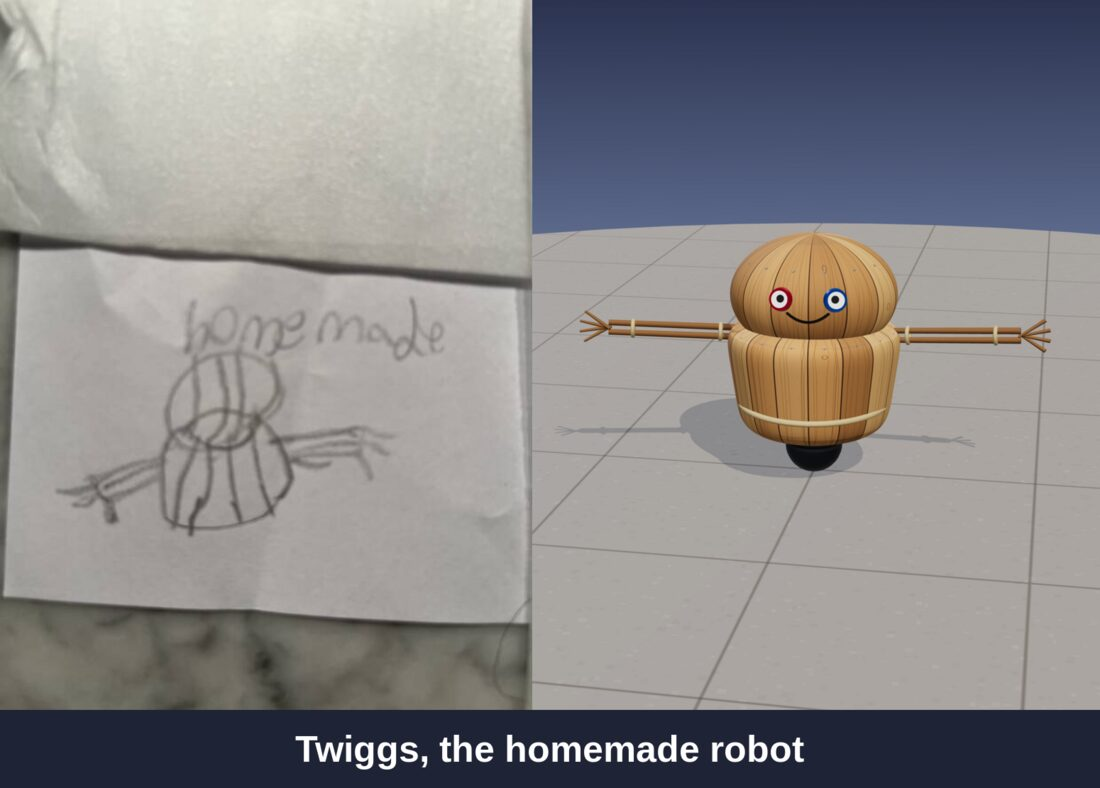
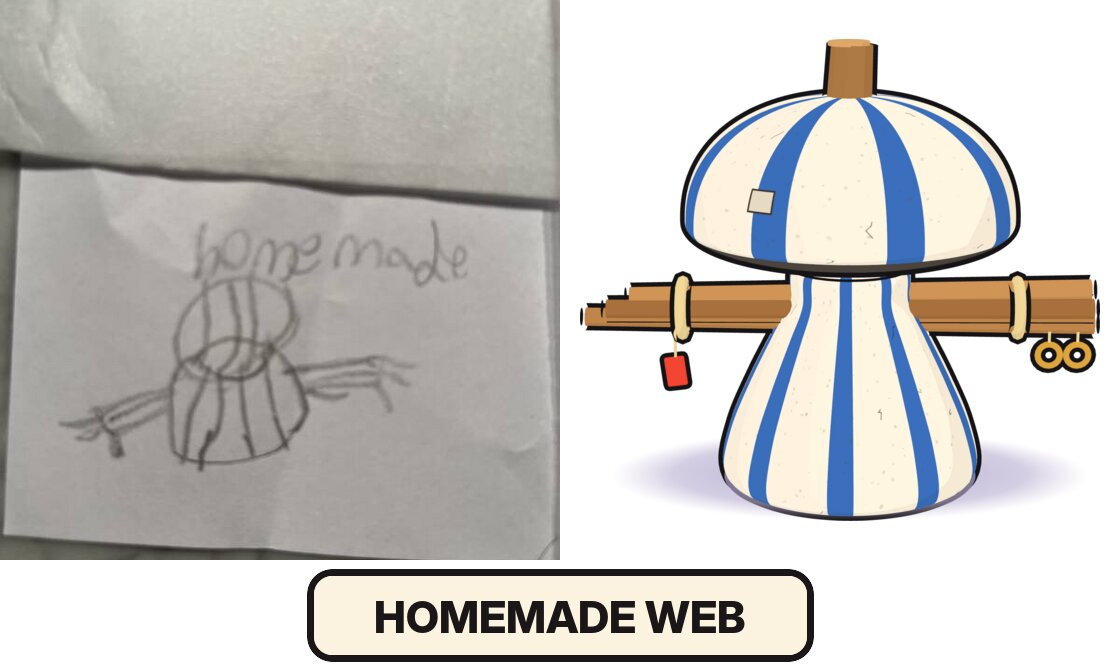
Rebuild the sketchbook characters from the owner's reference sheet
The reference sheet is now the design: Snatch, Astro, Patch, Spider Web,
and Homemade Web, cel-shaded with thick outlines. New concept renders
match it, laid out like the sheet and beside each drawing. The doc takes
the sheet's names, shapes, faces, arms, and features, and adds the toon
look (toon materials, inverted-hull outlines, unlit glows).

Claude-Session: https://claude.ai/code/session_01Hd9FrupR173vv3W464VfxR

diff --git a/docs/initiatives/sketchbook-characters.md b/docs/initiatives/sketchbook-characters.md
@@ -5,23 +5,22 @@
 | **Status** | Planned: next is `feature/sketchbook-cat` |
 | **Phase** | P3 (the characters), P5 (prices, with the [parts catalog](robot-parts-catalog.md)) |
 | **Started** | 2026-11-07 |
-| **Done when** | A kid walks into the Bot Maker, opens the Characters shelf, taps Meowtron, and rolls out as a gray robot cat with big shiny eyes, pointed ears, and whiskers. They swap its head for Patch's pumpkin, then reach out with the cat's tail, grab a saber off the floor two meters away, and pull it into their paw, while a friend on an iPad sees exactly that robot. |
+| **Done when** | A kid walks into the Bot Maker, opens the Characters shelf, taps Snatch, and rolls out as a gray robot cat with huge yellow eyes, pointed ears, and a ringed tail. They swap its head for Patch's pumpkin, then reach out with the cat's tail, grab a saber off the floor two meters away, and pull it into their grabber, while a friend on an iPad sees exactly that robot. |
 
 Five characters, drawn by the owner's son: a **cat**, an **astronaut**, a **pumpkin**, a **spider**, and a
-**homemade** robot. Each one becomes a **special build** in the Bot Maker: a robot dressed up as the drawing.
+**homemade** robot. The owner turned them into a reference sheet, and that sheet is the design: **Snatch**, **Astro**,
+**Patch**, **Spider Web**, and **Homemade Web**. Each one becomes a **special build** in the Bot Maker.
 
-**Each one is shaped like its drawing, not like today's robot:** a big head sitting right on a small body, no neck,
-and no giant drive ball. The cat and the pumpkin have huge wide heads, the astronaut a wide round-cornered helmet on a
-boxy suit, the spider a tall head under a round cap, and the homemade robot an oval head sunk into a wooden pail.
+![The reference sheet](sketchbook/reference-sheet.jpg)
 
-They still share their shapes, in the way that counts for code. Every head is built by **one shape generator** with
-the same layout (the same vertices, texture map, and feature spots), and so is every torso. A character sets a few
-numbers (width, height, depth, how boxy, how tapered) to match its drawing. What else tells them apart is the
-**skin** (the cat's fur, the astronaut's suit, the pumpkin's overalls) and a few small **features** stuck on top
-(ears, an antenna, a stem, a tail).
+They're chunky cartoon robots: big heads on small bodies, **cel-shaded with thick black outlines**, a little scuffed.
+Every head is built by **one shape generator** with the same layout (the same vertices, texture map, and feature
+spots), and so is every torso; each character sets a few numbers (width, height, depth, how boxy, ribs) to get its
+shape from the sheet. What else tells them apart is the **skin** and a few **features** stuck on top (ears, an antenna,
+a stem, a peg, a tail).
 
-They're still robots. Each rolls on a small drive roller tucked under its body, eats carrots through a jaw, and takes
-paint. They're robots in costume, and each has a robot name that plays on what it is.
+They're still robots. Each eats carrots through a jaw and takes paint, and each rolls on a small drive roller hidden
+under its body (Spider Web walks on its four legs instead).
 
 ## The drawings
 
@@ -31,17 +30,16 @@ paint. They're robots in costume, and each has a robot name that plays on what i
 
 ### In the game
 
-Concept renders, one per drawing, built in three.js the way this doc plans: one head generator and one torso
-generator for all five, each set to its drawing's proportions, in its own skin, with its own features and hands.
-They're a look to aim for, not the final parts.
+Concept renders built in three.js to match the reference sheet, the way this doc plans to build them: shared shape
+generators, toon materials on a three-tone ramp, and inverted-hull outlines. They're the look to aim for.
 
-![All five characters in the game](sketchbook/all-in-game.jpg)
+![All five characters in the game](sketchbook/characters.jpg)
 
-![Meowtron, the cat](sketchbook/cat-in-game.jpg)
-![Astrobolt, the astronaut](sketchbook/astronaut-in-game.jpg)
+![Snatch, the cat](sketchbook/cat-in-game.jpg)
+![Astro, the astronaut](sketchbook/astronaut-in-game.jpg)
 ![Patch, the pumpkin](sketchbook/pumpkin-in-game.jpg)
-![Spindle, the spider](sketchbook/spider-in-game.jpg)
-![Twiggs, the homemade robot](sketchbook/homemade-in-game.jpg)
+![Spider Web, the spider](sketchbook/spider-in-game.jpg)
+![Homemade Web, the homemade robot](sketchbook/homemade-in-game.jpg)
 
 The cat's tail is labeled "able to grab and pull". That's a feature, not a look: [the tail](#the-cats-tail) has its own
 PR.
@@ -51,122 +49,96 @@ PR.
 By the owner, 2026-11-07.
 
 - **Five characters, from the drawings:** cat, astronaut, pumpkin, spider, and homemade.
-- **Same torso geometry, same head geometry.** Every character's torso is one shared shape, and every head is another.
-- **Shaped like the drawings, not like today's robot (2026-11-07).** Each character's head and body take the
-  proportions and shapes of its drawing. So the sharing is one layout per part (one generator, one texture map, the
-  same feature spots), with each character's own shape numbers.
-- **Skins tell them apart:** the cat has a cat's body, the astronaut a space suit, the pumpkin overalls.
-- **Features on top:** ears, antennas, stems, and the like, added to the shared shapes.
+- **The reference sheet is the design.** Shapes, colors, faces, arms, and hands follow it as exactly as the game can.
+- **Their names are the sheet's:** Snatch (cat), Astro (astronaut), Patch (pumpkin), Spider Web (spider), and Homemade
+  Web (homemade).
+- **Same torso geometry, same head geometry,** as one layout per part: one generator, one texture map, the same
+  feature spots, with each character's own shape numbers.
+- **Skins tell them apart,** with **features on top:** ears, antennas, stems, and the like.
 - **They're a catalog** of skins and avatars in the Bot Maker, and each one is a quirky play on robots.
 - **The cat's tail can grab and pull.**
 
 ### Proposed here, for the owner to confirm
 
-- **The robot names:** Meowtron (cat), Astrobolt (astronaut), Patch (pumpkin), Spindle (spider), and Twiggs (homemade).
-  The catalog card shows the drawing's own word under the name: "Meowtron, the cat".
 - **Characters are parts, so kids can mix them.** Each character is a torso, a head, and arms, one in each of the
   `body`, `head`, and `arms` slots. Every torso has its neck spot on top and every head sits on it, so every head fits
-  every torso: a pumpkin head on a space suit just works. A character is a **preset build** on the Characters shelf, and one tap puts on all three parts.
-- **Arms too.** The drawings give each character its own hands (paws, mittens, fingers, claws, twigs), so the arms are
-  a shared shape with a skin and a hand of their own, like the torso and head.
-- **Paint colors the main skin, not the details.** A painted cat is an orange cat with the same white belly, dark eyes,
-  and whiskers. The astronaut's visor, the overalls' buttons, and the like never take paint.
+  every torso: a pumpkin head on Astro's body just works. A character is a **preset build** on the Characters shelf,
+  and one tap puts on all three parts.
+- **Paint colors the main skin, not the details.** A painted Snatch is an orange cat with the same cream belly and
+  yellow eyes. Visors, glowing eyes, chest panels, and the like never take paint.
 - **The drawing goes on the card.** Each character's catalog card shows the sketch it came from, with a credit line.
 - **Free at first,** like every part, then priced with the rest of the [parts catalog](robot-parts-catalog.md#prices):
   5 CC for each part, or 12 CC for a whole character.
 
 ## Design
 
+### The look: cel-shaded with outlines
+
+- **Toon materials** (`MeshToonMaterial`) on a three-step ramp, so each surface reads as flat light, mid, and shadow
+  colors, like the sheet.
+- **Thick black outlines** from an inverted hull: each part's mesh drawn again, pushed out along its normals, back
+  faces only, in near-black. One shared outline material per thickness.
+- **Scuffs:** cream and orange skins carry specks and a few scratches, drawn into the skin texture.
+- **Glows are unlit,** not lights (D9): Patch's eyes, Spider Web's eye slits and chest slit, and Astro's chest buttons,
+  with a soft sprite halo.
+- The rest of the station stays as it is. The characters are the only toon-shaded things in it, which is the point:
+  they're the kid's drawings come to life.
+
 ### The shared shapes
 
-- **One generator per part.** Heads and torsos are superellipsoids: a ball that can be stretched wide or tall, made
-  boxier, or tapered, from five numbers. Every head comes out with the same vertices, texture map, and feature spots,
-  and so does every torso, so skins and features work the same on all of them. Each character's shape is built once
-  and shared by every robot wearing it.
-- **The proportions come from the drawings,** in meters, with today's robot about 3.3 m tall for scale:
-
-  | | Head (wide × tall × deep) | Torso (wide × tall × deep) | Shape notes |
-  | --- | --- | --- | --- |
-  | Meowtron | 2.36 × 1.6 × 1.84 | 1.2 × 1.2 × 1.1 | The head is twice the body's width |
-  | Astrobolt | 2.2 × 1.44 × 1.8, round-cornered | 1.2 × 1.1 × 1.0, boxy | A helmet with flat-ish sides on a box |
-  | Patch | 2.5 × 1.64 × 2.0 | 1.0 × 1.24 × 0.92 | The widest head; a narrow body |
-  | Spindle | 1.2 × 1.6 × 1.16, tall | 0.96 × 0.84 × 0.92 | A tall oval head on a small round body |
-  | Twiggs | 1.72 × 1.24 × 1.52 | 1.7 × 1.2 × 1.6, flat top and bottom | The head sinks into a pail as wide as it is |
-
-- **No neck.** The head sits right on the torso, sunk into it a little, like the drawings.
-- **The roller.** Characters don't sit on the giant drive sphere. Their mobility is a small drive roller (about 0.6 m
-  across) mostly hidden under the body, so the robot is still a robot that rolls. It moves like the sphere; only the
-  look and the collision size change.
+- **One generator per part.** Heads are superellipsoids: a ball stretched wide or tall, made boxier, ribbed, dimpled at
+  the top, or flattened underneath, from a few numbers. Torsos are lathes from a profile, optionally ribbed. Every
+  head has the same vertices, texture map, and feature spots, and so does every torso, so skins and features work the
+  same on all of them. Each character's shape is built once and shared by every robot wearing it.
+- **Big heads, small bodies, no neck.** The head sits right on the torso, as on the sheet. Spider Web is the exception:
+  its dome rides on a short neck above its body.
+- **The roller.** The characters don't sit on the giant drive sphere. Their mobility is a small drive roller hidden
+  under the body, so they still roll. Spider Web stands on its claws, with its body off the floor; it rolls on the same
+  hidden roller, and its legs step as it goes.
 - **Torsos keep the standard mounts** (the neck spot on top, shoulders, the hold point, a chest hatch), placed on each
   shape, so any head and any arms fit any torso, and a character's head and arms fit the old bodies too.
-- **The arms:** a soft, round-ended tube from the shoulder that hangs and swings like the noodle arms, with a **hand**
-  on the end. The hand and the arm's length change per character: the cat's are stubby, the spider's arch out to the
-  floor, and Twiggs's are sticks held straight out.
+- **The arms** are segmented: short capsules in two alternating colors, so the outline draws each joint. The hand on
+  the end changes per character: round C-shaped grabbers (Snatch, Astro), dark hooked claws (Patch), three-toed claw
+  feet (Spider Web). Homemade Web has a bundle of sticks instead.
 - **The jaw:** the head's jaw is one cut in the shared shape (the lower front, below the face), the same for every
-  character. Each skin draws its own mouth on it: the cat's little "ω", the pumpkin's grin, the astronaut's chin plate.
-  If there's no head, the torso's chest hatch is the mouth, as on every body.
-- **Feature anchors:** named spots on the shared shapes where features attach: `top`, `left` and `right` on the head,
-  and `front`, `back` and `sides` on the torso.
+  character. Each skin draws its own mouth on it: Snatch's and Patch's open grins. Homemade Web has no face, so its jaw
+  is the cap's dark underside. With no head, the torso's chest hatch is the mouth, as on every body.
 
 ### Skins
 
 - **A skin is a texture, not a shape.** Each skin is a canvas texture drawn in code (`makeCanvas`, like every robot
-  skin today), cached, so every robot wearing the cat skin shares one texture. Skins are drawn bold and simple, like
-  the drawings, with soft pencil-gray outlines around the big shapes (the belly, the visor, the straps) as a nod to
-  where they came from.
+  skin today), cached, so every robot wearing it shares one texture.
 - **A paint mask.** Each skin has a second texture marking what paint covers. The coat shader (`avatar/parts/kit.ts`)
-  mixes by `cure × mask` instead of `cure`. Parts without a mask draw as before, so the classic robot and every
-  screenshot baseline stay unchanged.
+  mixes by `cure × mask` instead of `cure`, on the toon material as on the standard one. Parts without a mask draw as
+  before, so the classic robot and every screenshot baseline stay unchanged.
 - **Paint cure works the same:** a freshly painted cat is see-through over its gray fur, and the color fills in as it
   eats carrots.
 
-### Features
-
-Small meshes on the anchors, each a builder in `avatar/parts/features.ts`. They take paint when the skin under them
-does (a painted cat's ears match its fur) unless noted.
-
-| Feature | On | Looks like |
-| --- | --- | --- |
-| Cat ears | head `left`, `right` | Pointed triangles, rounded at the tip, with a pink inner ear and a little tuft |
-| Whiskers | head `left`, `right` | Three thin dark lines a side, fanning out from the cheeks. Never painted |
-| Tail | torso `back` | A long curving tail in segments, with a rounded tip. It swishes as the robot rolls ([the tail](#the-cats-tail)) |
-| Antenna | head `top` | A thin rod with a ball tip that glows softly (emissive, no light, D9) and bobs |
-| Ear bolts | head `left`, `right` | Small square comm units on the sides of the helmet |
-| Control box | torso `front` | A box on the chest with a checkerboard of buttons, a few lit. Never painted |
-| Stem | head `top` | A short, thick, slightly bent green stem. Never painted |
-| Overall straps | torso `front` | Two straps over the shoulders, a bib, and two round buttons. The denim takes paint, buttons don't |
-| Spider cap | head `top` | A round dome cap with a rolled rim, like the one in the drawing |
-| Twine | torso, arms | Rope bands tied round the torso and the wrists, with loose ends |
-
 ### The characters
 
-| | Head skin | Torso skin | Hands | Features |
+| | Head | Body | Arms and hands | Features |
 | --- | --- | --- | --- | --- |
-| **Meowtron**, the cat | Soft gray fur, two huge dark eyes ringed in black with white shines, a small nose and a "ω" mouth | Gray fur with a pale oval belly | Paws with three toe lines | Ears, whiskers, tail |
-| **Astrobolt**, the astronaut | A white helmet with a big glossy black visor, streaked with reflections; the chin plate is the jaw | A white space suit with seams and a utility belt | Puffy mittens | Antenna, ear bolts, control box |
-| **Patch**, the pumpkin | Pumpkin orange with darker ribs running down from the top, two round eyes, a square nose, and a little grin | Blue denim overalls over a plain shirt | Gloves with four fingers | Stem, overall straps |
-| **Spindle**, the spider | Deep purple, a cluster of eight shiny eyes (two big, six small), and two little fangs on the jaw | Purple with a paler hourglass on the back | Four thin hooked claws at the end of long arching arms | Spider cap |
-| **Twiggs**, the homemade robot | Wooden staves, as if nailed together in a garage: two bottle-cap eyes and a marker-drawn smile | Wooden staves round like a barrel, with nail heads | Two sticks bound with twine, and twig fingers | Twine |
-
-Twiggs's drawing has no face, so the bottle caps and the marker smile are a guess. The spider's eyes are too: its
-drawing shows the cap, the round body, and the long hooked arms.
+| **Snatch**, the cat | Wide gray head with tabby stripes and a cream lower face; huge yellow eyes with black pupils and white shines; an open grin with a tongue | A dark gray bell with a cream belly | Cream-and-tan striped arms, round cream C grabbers | Big pointed ears, pink inside with cream fluff; spiky fur tufts on the cheeks; a ringed tail (gray, orange, cream) curling up behind |
+| **Astro**, the astronaut | A cream, round-cornered helmet with a big glossy navy visor and white shines | A small cream box with a slate chest panel of four lit orange squares | Cream-and-orange striped arms, round white C grabbers | Antenna with an orange ball, round ear discs with orange centers, a backpack |
+| **Patch**, the pumpkin | A wide ribbed pumpkin with glowing yellow eyes in orange sockets and an open grin with a tongue | A ribbed orange bell with a small chest panel of four dark buttons | Long tan striped arms, dark gray hooked three-finger claws | A brown stem |
+| **Spider Web**, the spider | A wide dark dome with panel seams, and two glowing orange slit eyes at its lower front corners | A small dark rounded box with a glowing orange slit and a little grille, on a short neck | Four legs: two thin ones from under the dome to the body's sides, two big ones out and down to three-toed claw feet | Glowing eyes and chest slit |
+| **Homemade Web**, the homemade robot | A mushroom cap, cream with blue stripes and a dark underside, patched and chipped. No face | A cream bell with blue stripes | A bundle of sticks straight across, tied with rope | A wooden peg on top, brass rings hanging on the right, a red tag on the left |
 
 **Patch and the jack-o-lantern.** The [parts catalog's jack-o-lantern head](robot-parts-catalog.md#the-jack-o-lantern-head)
-is its own carved, glowing shape. Patch is a friendly pumpkin skin on the shared head, with a painted face and
-overalls. They're different parts, and both stay. Patch's stem can reuse the jack-o-lantern's builder if that PR lands
-first.
+is its own carved shape with a candle glow. Patch is a different part, in the sheet's toon style. Both stay. Patch's
+stem can reuse the jack-o-lantern's builder if that PR lands first.
 
 **Eyes.** Until the parts initiative splits eyes from heads (its `foundation/seven-part-slots`), each character's eyes
-are part of its head skin. That PR then gives the shared head two eye sockets (and Spindle eight), and each
-character's eyes become its default eye part, so a cat with googly eyes is a pick away.
+are part of its head. That PR then gives the shared head eye sockets, and each character's eyes become its default eye
+part, so a Snatch with Patch's glowing eyes is a pick away.
 
 ### The Characters shelf
 
 - **A new shelf in the Bot Maker,** next to the slot lists: one card per character, with its name, the drawing's word,
-  a turntable of the character, and the sketch.
+  a turntable of the character, and the sketch it came from.
 - **Tapping a card puts on its torso, head, and arms,** each in its original skin. The rest of the build (mobility,
   and later eyes, voice, and thrusters) stays as it was.
-- **Then mix:** the parts sit in the normal slot lists too ("Meowtron head", "Patch torso"), so any of them can be
+- **Then mix:** the parts sit in the normal slot lists too ("Snatch head", "Patch body"), so any of them can be
   swapped one at a time.
 - **In code,** `shared/content/characters.ts` lists the characters: id, robot name, the drawing's word, and the three
   parts. The parts are ordinary entries in `ROBOT_PARTS` (`body: cat`, `head: cat`, `arms: cat`, and so on), drawn by
@@ -204,11 +176,11 @@ merges.
 
 | # | Status | Branch | PR title | What it adds | Protocol / schema |
 | --- | --- | --- | --- | --- | --- |
-| 1 | Next | `feature/sketchbook-cat` | Turn the sketchbook cat into a robot | The head and torso shape generators, each character's shape numbers, the shared arm, feature anchors, and jaw; the small drive roller as a mobility part; skins with paint masks (the coat shader's `cure × mask`); `shared/content/characters.ts`; the Characters shelf with the drawing on each card. Meowtron: its skins, paws, ears, whiskers, and a tail that swishes (grabbing comes in PR 6). A close-up screenshot, painted and not, and every classic baseline unchanged. | `PROTOCOL_VERSION` bump |
-| 2 | | `feature/sketchbook-astronaut` | Turn the sketchbook astronaut into a robot | Astrobolt: the helmet and visor, the space suit, mittens, the antenna, ear bolts, and the control box. A screenshot. | `PROTOCOL_VERSION` bump |
-| 3 | | `feature/sketchbook-pumpkin` | Turn the sketchbook pumpkin into a robot | Patch: the pumpkin skin and face, the stem, the overalls with straps and buttons, and gloves. A screenshot. | `PROTOCOL_VERSION` bump |
-| 4 | | `feature/sketchbook-spider` | Turn the sketchbook spider into a robot | Spindle: the purple skin and eight eyes, the cap, and the two long arms that arch out to hooked claws on the floor. A screenshot. | `PROTOCOL_VERSION` bump |
-| 5 | | `feature/sketchbook-homemade` | Turn the sketchbook homemade robot into a robot | Twiggs: the wooden staves, bottle-cap eyes and marker smile, the stick arms, and twine. A screenshot sheet of all five characters, and of a few mixed builds. | `PROTOCOL_VERSION` bump |
+| 1 | Next | `feature/sketchbook-cat` | Turn the sketchbook cat into a robot | The head and torso shape generators, each character's shape numbers, the shared arm, feature anchors, and jaw; the small drive roller as a mobility part; skins with paint masks (the coat shader's `cure × mask`); `shared/content/characters.ts`; the Characters shelf with the drawing on each card. The toon material with outlines. Snatch: its skins, grabbers, ears, fur tufts, eyes, and a ringed tail that swishes (grabbing comes in PR 6). A close-up screenshot, painted and not, and every classic baseline unchanged. | `PROTOCOL_VERSION` bump |
+| 2 | | `feature/sketchbook-astronaut` | Turn the sketchbook astronaut into a robot | Astro: the helmet and visor, the boxy body and chest panel, striped arms and grabbers, the antenna, ear discs, and backpack. A screenshot. | `PROTOCOL_VERSION` bump |
+| 3 | | `feature/sketchbook-pumpkin` | Turn the sketchbook pumpkin into a robot | Patch: the ribbed pumpkin head and body, glowing eyes, the stem, the chest panel, and hooked claws. A screenshot. | `PROTOCOL_VERSION` bump |
+| 4 | | `feature/sketchbook-spider` | Turn the sketchbook spider into a robot | Spider Web: the dark dome with glowing slit eyes, the box body on its neck, and four jointed legs with claw feet that step as it rolls. A screenshot. | `PROTOCOL_VERSION` bump |
+| 5 | | `feature/sketchbook-homemade` | Turn the sketchbook homemade robot into a robot | Homemade Web: the striped mushroom cap and bell, the peg, the stick bundle with rope, rings, and the red tag. A screenshot sheet of all five characters, and of a few mixed builds. | `PROTOCOL_VERSION` bump |
 | 6 | | `feature/cat-tail-grab` | Let the cat's tail grab and pull things | The tail as a third hand: whip out, grab a held item up to 2.5 m away, pull it in. A `tail` pose field, a second held slot, and the server checking the reach. Needs `foundation/server-held-items`. | `PROTOCOL_VERSION` bump |
 
 PRs 1 to 5 don't need anything else and can merge any time, in any order after PR 1. PR 6 needs the
@@ -218,7 +190,7 @@ PRs 1 to 5 don't need anything else and can merge any time, in any order after P
 ## Tests
 
 - **Unit:**
-  - `cleanRobotBuild` with every character part, and with mixed builds (a cat head on Twiggs's torso).
+  - `cleanRobotBuild` with every character part, and with mixed builds (Snatch's head on Homemade Web's body).
   - Every character in `characters.ts` names parts that exist, in the right slots.
   - The tail's reach rule: in range, out of range, held by someone else, for sale in a shop.
 - **Server:**
@@ -236,13 +208,14 @@ PRs 1 to 5 don't need anything else and can merge any time, in any order after P
 | --- | --- |
 | The paint mask changes the coat shader, and with it every painted robot | Parts without a mask take the old path (a define, not a uniform), so their shader is byte-identical, and the baselines prove it |
 | Features add draw calls to every robot | Each feature is a few small meshes; merge a robot's static ones per material after it's built, as the parts catalog plans. Watch Quest frame time with 10 characters |
-| Thin whiskers and claws shimmer in VR | Whiskers are thin flat strips with alpha-to-coverage, not lines; check them in the VR close-up |
+| Thin claws, antennas, and outlines shimmer in VR | Outlines scale with distance; check every character in the VR close-up |
 | The tail's 2.5 m reach feels like stealing | It can't take what's held or for sale, and the server checks the reach |
-| A guessed face (Twiggs, Spindle) isn't what the artist meant | Show the son the screenshots before each PR merges, and change the skin, not the shape |
+| Outlines double the draw calls of every character | One outline mesh per merged static group, not per part; drop outlines on far-away robots |
+| Toon characters look out of place in the station | They're meant to stand out; check them next to the classic robot in the plaza screenshot |
+| A build drifts from the reference sheet | Each PR's screenshot goes next to the sheet in review, and the son sees it before it merges |
 
 ## Open questions
 
-- **The robot names:** Meowtron, Astrobolt, Patch, Spindle, and Twiggs, or names the artist picks?
 - **The credit on the cards:** "Drawn by" whom? A first name, a nickname, or just "From the sketchbook"?
 - **Can the tail pull friends?** Towing a friend's robot (with their OK) is fun, but each player's client owns their own
   robot (D7), so it needs a "let them pull you" step. Left out of PR 6.

diff --git a/docs/REFACTOR_PLAN.md b/docs/REFACTOR_PLAN.md
@@ -36,7 +36,7 @@ All three platforms play together in **one shared station**, with up to **10 pla
 - **VR movement, first person, and Selfie (2026-11-04).** Walking in VR is arm-push locomotion on the floor. In first person, Quest players see only their robot's hands and arms; everyone else sees the whole robot, and a **Selfie** button on every device shows you your own (a small live "mini-me" in VR, an orbiting camera on iPad and Mac). Ships in VR are flown from the cockpit by grabbing a joystick and throttle. All in the [Quest VR initiative](initiatives/quest-vr.md).
 - **Swimming in zero gravity (2026-11-04).** Robots swim through zero-g with a breaststroke through the air (a swim move on iPad and Mac), in the hub, on spacewalks outside the station, and later in the Refinery Ring. The details and the PRs are in the initiative [Swimming in zero gravity](initiatives/zero-g-swimming.md).
 - **Inventory v1 (2026-11-04).** One place that shows what a player owns, starting with the **jack-o-lantern head**, bought for Cyber Crystals. Players can give held items (still shared toys) and Cyber Crystals to friends. The details and the PRs are in the initiative [Inventory v1](initiatives/inventory.md).
-- **Sketchbook characters (2026-11-07).** Five characters drawn by the owner's son (a cat, an astronaut, a pumpkin, a spider, and a homemade robot) become special builds in the Bot Maker. Every character shares **one torso geometry and one head geometry**; **skins** tell them apart (the cat's fur, the astronaut's suit, the pumpkin's overalls), with **features** on top (ears, an antenna, a stem, a tail). The cat's tail can **grab and pull**. The details and the PRs are in the initiative [Sketchbook characters](initiatives/sketchbook-characters.md).
+- **Sketchbook characters (2026-11-07).** Five characters drawn by the owner's son (a cat, an astronaut, a pumpkin, a spider, and a homemade robot) become special builds in the Bot Maker. An owner's reference sheet is the design: **Snatch**, **Astro**, **Patch**, **Spider Web**, and **Homemade Web**, cel-shaded with thick outlines. Every character shares **one torso layout and one head layout**, shaped per character; **skins** tell them apart, with **features** on top (ears, an antenna, a stem, a tail). The cat's tail can **grab and pull**. The details and the PRs are in the initiative [Sketchbook characters](initiatives/sketchbook-characters.md).
 - **Mining Cyber Ore (2026-11-01).** Cyber Crystals are mined, like cryptocurrency (in spirit only: it's play money in the ledger). A registered player's wallet fills by mining **Cyber Ore** on a **distant planet** with an **ore hauler**, a vehicle that both mines the ore and flies it back to the **Refinery Ring**, a separate ring in space dedicated to refining ore into crystals. This is the second economic thread, next to carrots, and replaces the earlier ore drifting in the hub and the Refinery next to the Depot. The details and the PRs are in the initiative [Mining Cyber Ore and refining it into Cyber Crystals](initiatives/cyber-ore-mining.md).
 
 ## Initiatives

diff --git a/docs/initiatives/robot-parts-catalog.md b/docs/initiatives/robot-parts-catalog.md
@@ -93,7 +93,7 @@ A first batch, so every catalog has a real choice. Parts are procedural like eve
 `avatar/parts/`, and adding a variant is mostly a catalog entry.
 
 The [sketchbook characters](sketchbook-characters.md) add five more heads, bodies, and arms (a cat, an astronaut, a
-pumpkin, a spider, and a homemade robot), all sharing one head shape and one torso shape with different skins.
+pumpkin, a spider, and a homemade robot), each built from one shared head layout and one torso layout, with its own skin.
 
 | Catalog | New parts |
 | --- | --- |
